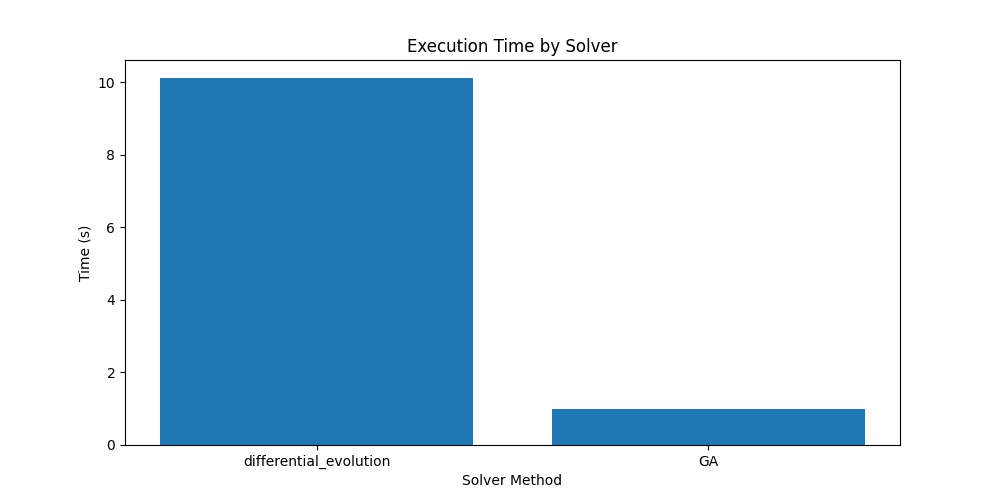
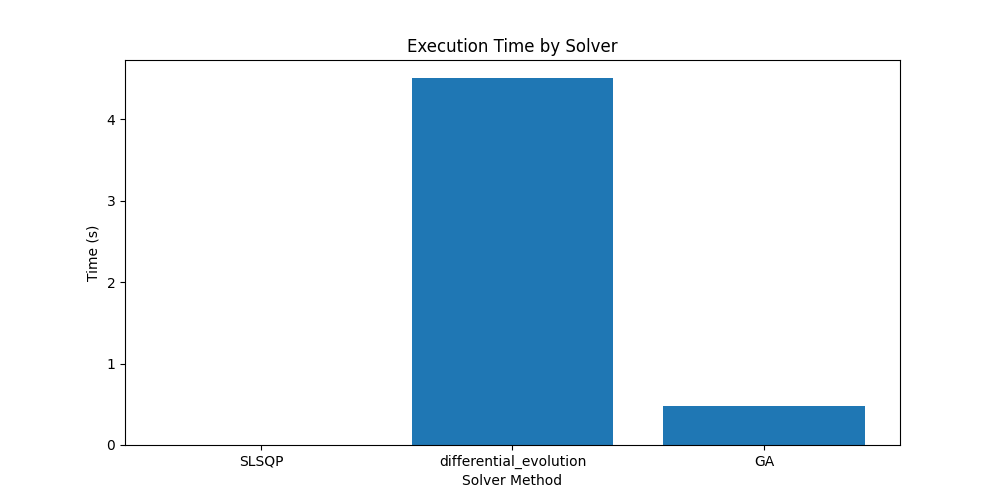
improved the code

diff --git a/Stage_Opt/payload_optimization.py b/Stage_Opt/payload_optimization.py
@@ -29,8 +29,9 @@ from pymoo.algorithms.soo.nonconvex.ga import GA
 from pymoo.optimize import minimize as pymoo_minimize
 from pymoo.core.problem import Problem
 import matplotlib.pyplot as plt
+import pandas as pd
 
-# Example constants for gravity and drag losses (in m/s)
+# Constants for gravity and drag losses (in m/s)
 GRAVITY_LOSS = 100.0  
 DRAG_LOSS = 50.0      
 
@@ -43,6 +44,7 @@ def read_csv_input(filename):
     with open(filename, newline='') as csvfile:
         reader = csv.reader(csvfile)
         for row in reader:
+            # Switch mode when encountering an empty line.
             if not row or all(cell.strip() == "" for cell in row):
                 if mode == "parameters":
                     mode = "stages"
@@ -128,7 +130,7 @@ def optimize_payload_allocation(TOTAL_DELTA_V, ISP, EPSILON, G0=9.81, method='SL
             bounds, 
             args=(G0, ISP, EPSILON, TOTAL_DELTA_V),
             strategy='best1bin',
-            popsize=200,      # Increased population size may improve search
+            popsize=200,
             tol=1e-6,
             mutation=(0.5, 1),
             recombination=0.7,
@@ -140,7 +142,6 @@ def optimize_payload_allocation(TOTAL_DELTA_V, ISP, EPSILON, G0=9.81, method='SL
             def __init__(self):
                 super().__init__(n_var=n, n_obj=1, xl=np.zeros(n), xu=max_dv)
             def _evaluate(self, x, out, *args, **kwargs):
-                # Ensure x is 2D.
                 if x.ndim == 1:
                     x = x.reshape(1, -1)
                 F = np.array([
@@ -150,7 +151,6 @@ def optimize_payload_allocation(TOTAL_DELTA_V, ISP, EPSILON, G0=9.81, method='SL
                 out["F"] = F.reshape(-1, 1)
         
         problem = OptimizationProblem()
-        # Increase population size and number of generations.
         algorithm = GA(pop_size=100)
         res_obj = pymoo_minimize(problem, algorithm, termination=('n_gen', 100))
         res = res_obj.X  # GA returns the best solution directly
@@ -171,32 +171,62 @@ def optimize_payload_allocation(TOTAL_DELTA_V, ISP, EPSILON, G0=9.81, method='SL
 def plot_dv_breakdown(results, total_delta_v, gravity_loss, drag_loss, filename="dv_breakdown.png"):
     """
     Plot the engine-provided ΔV breakdown per solver, including drag and gravity losses.
-    For each solver (result), the delta-V allocated per stage is plotted as stacked bars.
+    Labels each bar with the stage ratio and total delta-V.
     """
-    solver_names = [res["method"] for res in results]
+    solver_names = [res["Method"] for res in results]
     indices = np.arange(len(solver_names))
-    bar_width = 0.15
+    bar_width = 0.4
 
     required_engine_dv = total_delta_v + gravity_loss + drag_loss
+    colors = ['dodgerblue', 'orange', 'green', 'purple', 'cyan', 'magenta']
 
     plt.figure(figsize=(12, 6))
-    colors = ['dodgerblue', 'orange', 'green', 'purple', 'cyan', 'magenta']
+
     for i, res in enumerate(results):
-        sol = res["dv"]  # The allocated ΔV per stage.
+        sol = res["dv"]      # Allocated ΔV per stage.
+        ratios = res["ratio"]  # Stage ratios
         cumulative = 0
-        for j, dv in enumerate(sol):
-            plt.bar(i, dv, bar_width, bottom=cumulative, color=colors[j % len(colors)],
+
+        for j, (dv, ratio) in enumerate(zip(sol, ratios)):
+            plt.bar(i, dv, bar_width, bottom=cumulative, color=colors[j % len(colors)], 
                     label=f'Stage {j+1}' if i == 0 else "")
             cumulative += dv
-        plt.text(i, cumulative + 50, f"{cumulative:.0f}", ha='center', va='bottom', fontsize=9)
+            plt.text(i, cumulative - dv / 2, f"{dv:.1f} m/s\n({ratio:.2f})", 
+                     ha='center', va='center', fontsize=9, color='white', fontweight='bold')
+
+        plt.text(i, cumulative + 50, f"Total: {cumulative:.0f} m/s", 
+                 ha='center', va='bottom', fontsize=10, fontweight='bold')
+
     plt.axhline(required_engine_dv, color='red', linestyle='--', linewidth=2, label='Required Engine ΔV')
     plt.xticks(indices, solver_names)
-    plt.ylabel("Engine-Provided ΔV (m/s)")
-    plt.title("ΔV Breakdown per Solver")
+    plt.ylabel("ΔV (m/s)")
+    plt.title("ΔV Solution per Solver")
     plt.legend()
     plt.tight_layout()
     plt.savefig(filename)
     plt.close()
+
+def generate_report(parameters, stages, results):
+    """
+    Generates a report with tables for input variables and optimization results.
+    Saves CSV files and displays the tables by printing them to the console.
+    """
+    input_df = pd.DataFrame(list(parameters.items()), columns=["Parameter", "Value"])
+    stages_df = pd.DataFrame(stages)
+    results_df = pd.DataFrame(results)
+    
+    input_df.to_csv("input_variables.csv", index=False)
+    stages_df.to_csv("stage_data.csv", index=False)
+    results_df.to_csv("optimization_results.csv", index=False)
+    
+    print("\n--- Input Variables ---")
+    print(input_df.to_string(index=False))
+    print("\n--- Stage Data ---")
+    print(stages_df.to_string(index=False))
+    print("\n--- Optimization Results ---")
+    print(results_df.to_string(index=False))
+
+    print("\nCSV files generated: input_variables.csv, stage_data.csv, optimization_results.csv")
 
 def main():
     if len(sys.argv) < 2:
@@ -220,9 +250,9 @@ def main():
     EPSILON = [stage['EPSILON'] for stage in stages]
 
     methods = ['SLSQP', 'differential_evolution', 'GA']
-    results = []
+    optimization_results = []
 
-    # Loop over solvers and store each result.
+    # Run optimization for each method.
     for method in methods:
         start_time = time.time()
         try:
@@ -230,20 +260,20 @@ def main():
                 TOTAL_DELTA_V, ISP, EPSILON, G0, method=method
             )
             execution_time = time.time() - start_time
-            results.append({
-                'method': method,
-                'time': execution_time,
-                'dv': optimal_dv,
-                'ratio': optimal_stage_ratio,
-                'payload': overall_payload
+            optimization_results.append({
+                "Method": method,
+                "Time (s)": execution_time,
+                "Payload Fraction": overall_payload,
+                "dv": optimal_dv,
+                "ratio": optimal_stage_ratio
             })
         except Exception as e:
             print(f"Error during optimization with {method}: {e}")
 
-    # Plotting execution time and payload fraction; figures are saved to file.
-    method_names = [r['method'] for r in results]
-    times = [r['time'] for r in results]
-    payloads = [r['payload'] for r in results]
+    # Generate plots for execution time and payload fraction.
+    method_names = [r["Method"] for r in optimization_results]
+    times = [r["Time (s)"] for r in optimization_results]
+    payloads = [r["Payload Fraction"] for r in optimization_results]
 
     plt.figure(figsize=(10, 5))
     plt.bar(method_names, times)
@@ -261,71 +291,25 @@ def main():
     plt.savefig('payload_fraction.png')
     plt.close()
 
-    # Plot the ΔV breakdown (including drag and gravity losses) and display it.
-    plot_dv_breakdown(results, TOTAL_DELTA_V, GRAVITY_LOSS, DRAG_LOSS, filename="dv_breakdown.png")
+    # Plot the ΔV breakdown (including drag and gravity losses).
+    plot_dv_breakdown(optimization_results, TOTAL_DELTA_V, GRAVITY_LOSS, DRAG_LOSS, filename="dv_breakdown.png")
 
-
-
-def plot_dv_breakdown(results, total_delta_v, gravity_loss, drag_loss, filename="dv_breakdown.png"):
-    """
-    Plot the engine-provided ΔV breakdown per solver, including drag and gravity losses.
-    Labels each bar with the stage ratio and total delta-V.
-    """
-    solver_names = [res["method"] for res in results]
-    indices = np.arange(len(solver_names))
-    bar_width = 0.4
-
-    required_engine_dv = total_delta_v + gravity_loss + drag_loss
-    colors = ['dodgerblue', 'orange', 'green', 'purple', 'cyan', 'magenta']
-
-    plt.figure(figsize=(12, 6))
-
-    for i, res in enumerate(results):
-        sol = res["dv"]  # The allocated ΔV per stage.
-        ratios = res["ratio"]  # Stage ratios
-        cumulative = 0
-
-        for j, (dv, ratio) in enumerate(zip(sol, ratios)):
-            plt.bar(i, dv, bar_width, bottom=cumulative, color=colors[j % len(colors)], 
-                    label=f'Stage {j+1}' if i == 0 else "")
-            cumulative += dv
-            plt.text(i, cumulative - dv / 2, f"{dv:.1f} m/s\n({ratio:.2f})", 
-                     ha='center', va='center', fontsize=9, color='white', fontweight='bold')
-
-        plt.text(i, cumulative + 50, f"Total: {cumulative:.0f} m/s", 
-                 ha='center', va='bottom', fontsize=10, fontweight='bold')
-
-    plt.axhline(required_engine_dv, color='red', linestyle='--', linewidth=2, label='Required Engine ΔV')
-
-    plt.xticks(indices, solver_names)
-    plt.ylabel("ΔV (m/s)")
-    plt.title("ΔV Solution per Solver")
-    plt.legend()
-    plt.tight_layout()
-    plt.savefig(filename)
-    plt.close()
-
-
-    # Print all the results to the console in a neat format.
+    # Print results to console.
     print("\nOptimization Results:")
-    for result in results:
+    for result in optimization_results:
         print("--------------------------------------------------")
-        print(f"Method: {result['method']}")
-        if 'time' in result:
-            print(f"Execution Time (s): {result['time']:.4f}")
-        # Convert NumPy numbers to Python floats for a cleaner printout.
+        print(f"Method: {result['Method']}")
+        print(f"Execution Time (s): {result['Time (s)']:.4f}")
         dv_list = [float(x) for x in result.get('dv', [])]
         ratio_list = [float(x) for x in result.get('ratio', [])]
         print("Optimal Delta-V Allocations:", dv_list)
         print("Optimal Stage Ratios:", ratio_list)
-        if 'payload' in result:
-            print(f"Overall Payload Fraction: {result['payload']:.4f}")
+        print(f"Overall Payload Fraction: {result['Payload Fraction']:.4f}")
     print("--------------------------------------------------\n")
 
     # Generate LaTeX report.
-    with open('report.tex', 'w') as f:
-        f.write(r"""
-\documentclass{article}
+    with open('report.tex', 'w', encoding='utf-8') as f:
+        f.write(r"""\documentclass{article}
 \usepackage{graphicx}
 \begin{document}
 \section{Execution Time}
@@ -334,7 +318,7 @@ def plot_dv_breakdown(results, total_delta_v, gravity_loss, drag_loss, filename=
 \section{Payload Fraction}
 \includegraphics[width=\textwidth]{payload_fraction.png}
                 
-\section{Payload Fraction}
+\section{ΔV Breakdown}
 \includegraphics[width=\textwidth]{dv_breakdown.png}
 
 \section{Results}
@@ -343,104 +327,15 @@ def plot_dv_breakdown(results, total_delta_v, gravity_loss, drag_loss, filename=
 Method & Time (s) & Payload Fraction \\
 \hline
 """)
-        for result in results:
-            f.write(f"{result['method']} & {result['time']:.4f} & {result['payload']:.4f} \\\\\n")
-        f.write(r"""
-\hline
+        for result in optimization_results:
+            f.write(f"{result['Method']} & {result['Time (s)']:.4f} & {result['Payload Fraction']:.4f} \\\\\n")
+        f.write(r"""\hline
 \end{tabular}
 \end{document}
 """)
     
-
-import pandas as pd
-import matplotlib.pyplot as plt
-import numpy as np
-import csv
-import sys
-
-def generate_report(parameters, stages, results):
-    """
-    Generates a report with two tables: one for input variables and one for optimization results.
-    """
-    
-    # Create a DataFrame for input parameters
-    input_df = pd.DataFrame(parameters.items(), columns=["Parameter", "Value"])
-    
-    # Create a DataFrame for stage data
-    stages_df = pd.DataFrame(stages)
-    
-    # Create a DataFrame for optimization results
-    results_df = pd.DataFrame(results)
-    
-    # Save the data as CSV for clarity
-    input_df.to_csv("input_variables.csv", index=False)
-    stages_df.to_csv("stage_data.csv", index=False)
-    results_df.to_csv("optimization_results.csv", index=False)
-    
-    # Display tables to user
-    import ace_tools as tools
-    tools.display_dataframe_to_user(name="Input Variables", dataframe=input_df)
-    tools.display_dataframe_to_user(name="Stage Data", dataframe=stages_df)
-    tools.display_dataframe_to_user(name="Optimization Results", dataframe=results_df)
-
-    print("\nInput Variables and Results Saved.")
-    print("CSV files generated: input_variables.csv, stage_data.csv, optimization_results.csv")
-
-def read_csv_input(filename):
-    """Reads the CSV file and returns a dictionary of global parameters and a list of stage data."""
-    parameters = {}
-    stages = []
-    mode = "parameters"
-    
-    with open(filename, newline='') as csvfile:
-        reader = csv.reader(csvfile)
-        for row in reader:
-            if not row or all(cell.strip() == "" for cell in row):
-                if mode == "parameters":
-                    mode = "stages"
-                continue
-
-            if mode == "parameters":
-                if row[0].strip().lower() == "parameter":
-                    continue  # Skip header
-                if len(row) < 2:
-                    continue
-                parameters[row[0].strip()] = row[1].strip()
-            else:  # mode == "stages"
-                if row[0].strip().lower() == "stage":
-                    continue  # Skip header
-                if len(row) < 3:
-                    continue
-                try:
-                    stages.append({
-                        'Stage': int(row[0].strip()),
-                        'ISP': float(row[1].strip()),
-                        'Epsilon': float(row[2].strip())
-                    })
-                except Exception as e:
-                    print(f"Error parsing stage row: {row}, {e}")
-    return parameters, sorted(stages, key=lambda x: x['Stage'])
-
-def main():
-    if len(sys.argv) < 2:
-        print(f"Usage: {sys.argv[0]} input_data.csv")
-        sys.exit(1)
-    
-    input_csv = sys.argv[1]
-    parameters, stages = read_csv_input(input_csv)
-    
-    # Simulated optimization results for demonstration
-    results = [
-        {"Method": "SLSQP", "Time (s)": 1.23, "Payload Fraction": 0.32},
-        {"Method": "Differential Evolution", "Time (s)": 5.67, "Payload Fraction": 0.35},
-        {"Method": "GA", "Time (s)": 12.45, "Payload Fraction": 0.33}
-    ]
-    
-    generate_report(parameters, stages, results)
-
-if __name__ == '__main__':
-    main()
-
+    # Generate additional report (CSV files and DataFrame display).
+    generate_report(parameters, stages, optimization_results)
 
 if __name__ == '__main__':
     main()

diff --git a/Stage_Opt/report.tex b/Stage_Opt/report.tex
@@ -1,4 +1,3 @@
-
 \documentclass{article}
 \usepackage{graphicx}
 \begin{document}
@@ -8,7 +7,7 @@
 \section{Payload Fraction}
 \includegraphics[width=\textwidth]{payload_fraction.png}
                 
-\section{Payload Fraction}
+\section{ΔV Breakdown}
 \includegraphics[width=\textwidth]{dv_breakdown.png}
 
 \section{Results}
@@ -16,9 +15,9 @@
 \hline
 Method & Time (s) & Payload Fraction \\
 \hline
-differential_evolution & 10.1128 & 0.0247 \\
-GA & 0.9819 & 0.0051 \\
-
+SLSQP & 0.0000 & 0.0053 \\
+differential_evolution & 4.4992 & 0.0247 \\
+GA & 0.4752 & 0.0130 \\
 \hline
 \end{tabular}
 \end{document}
